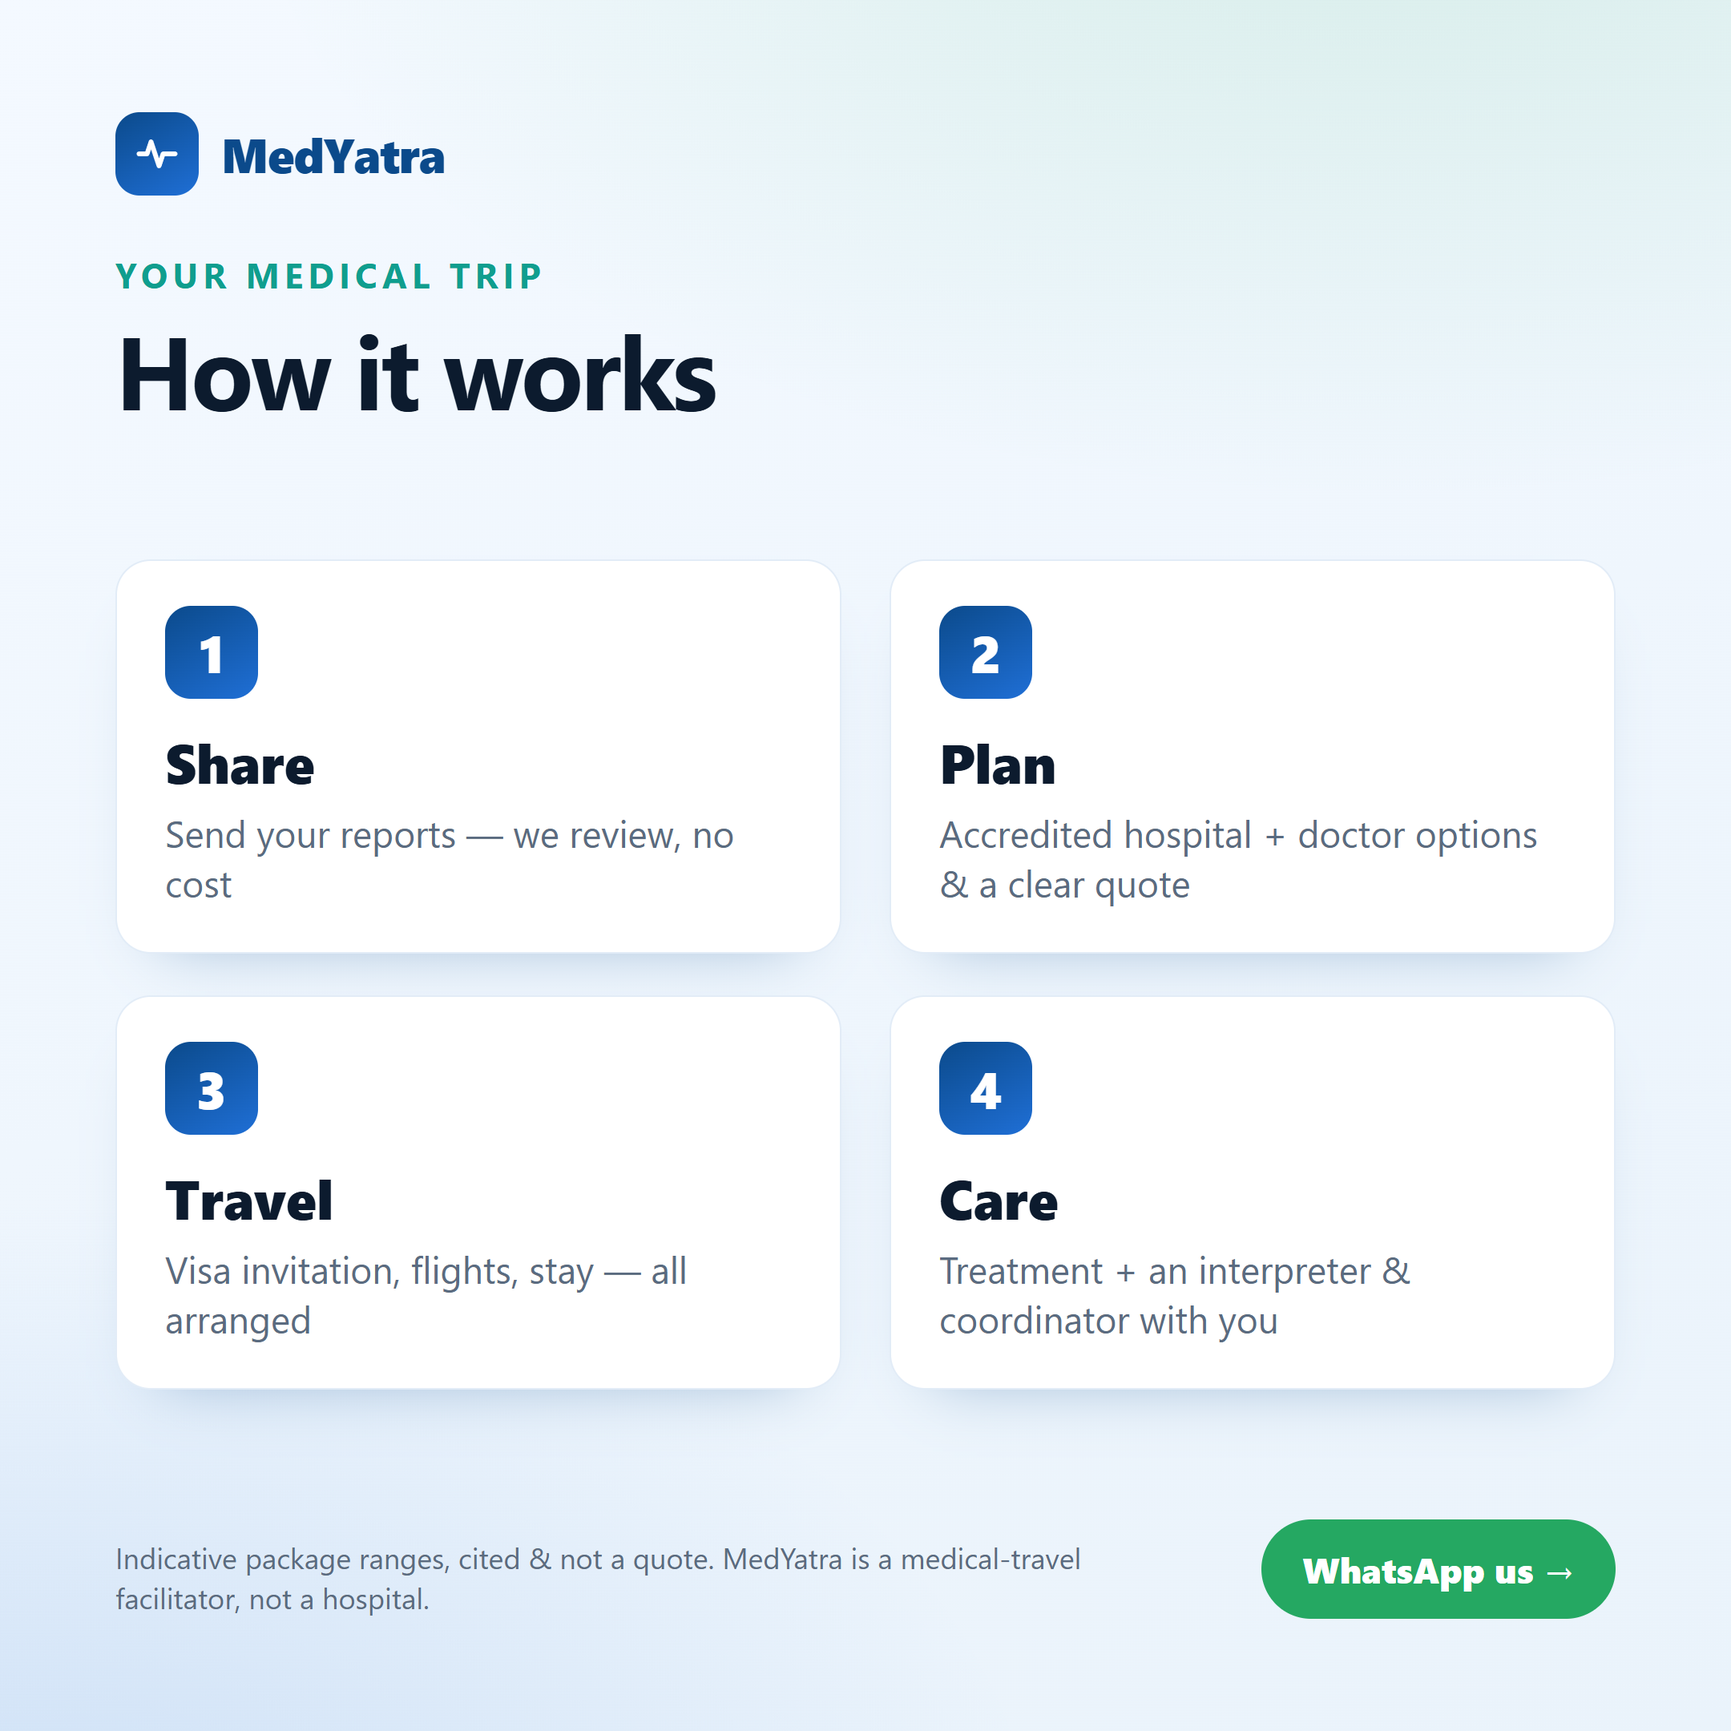
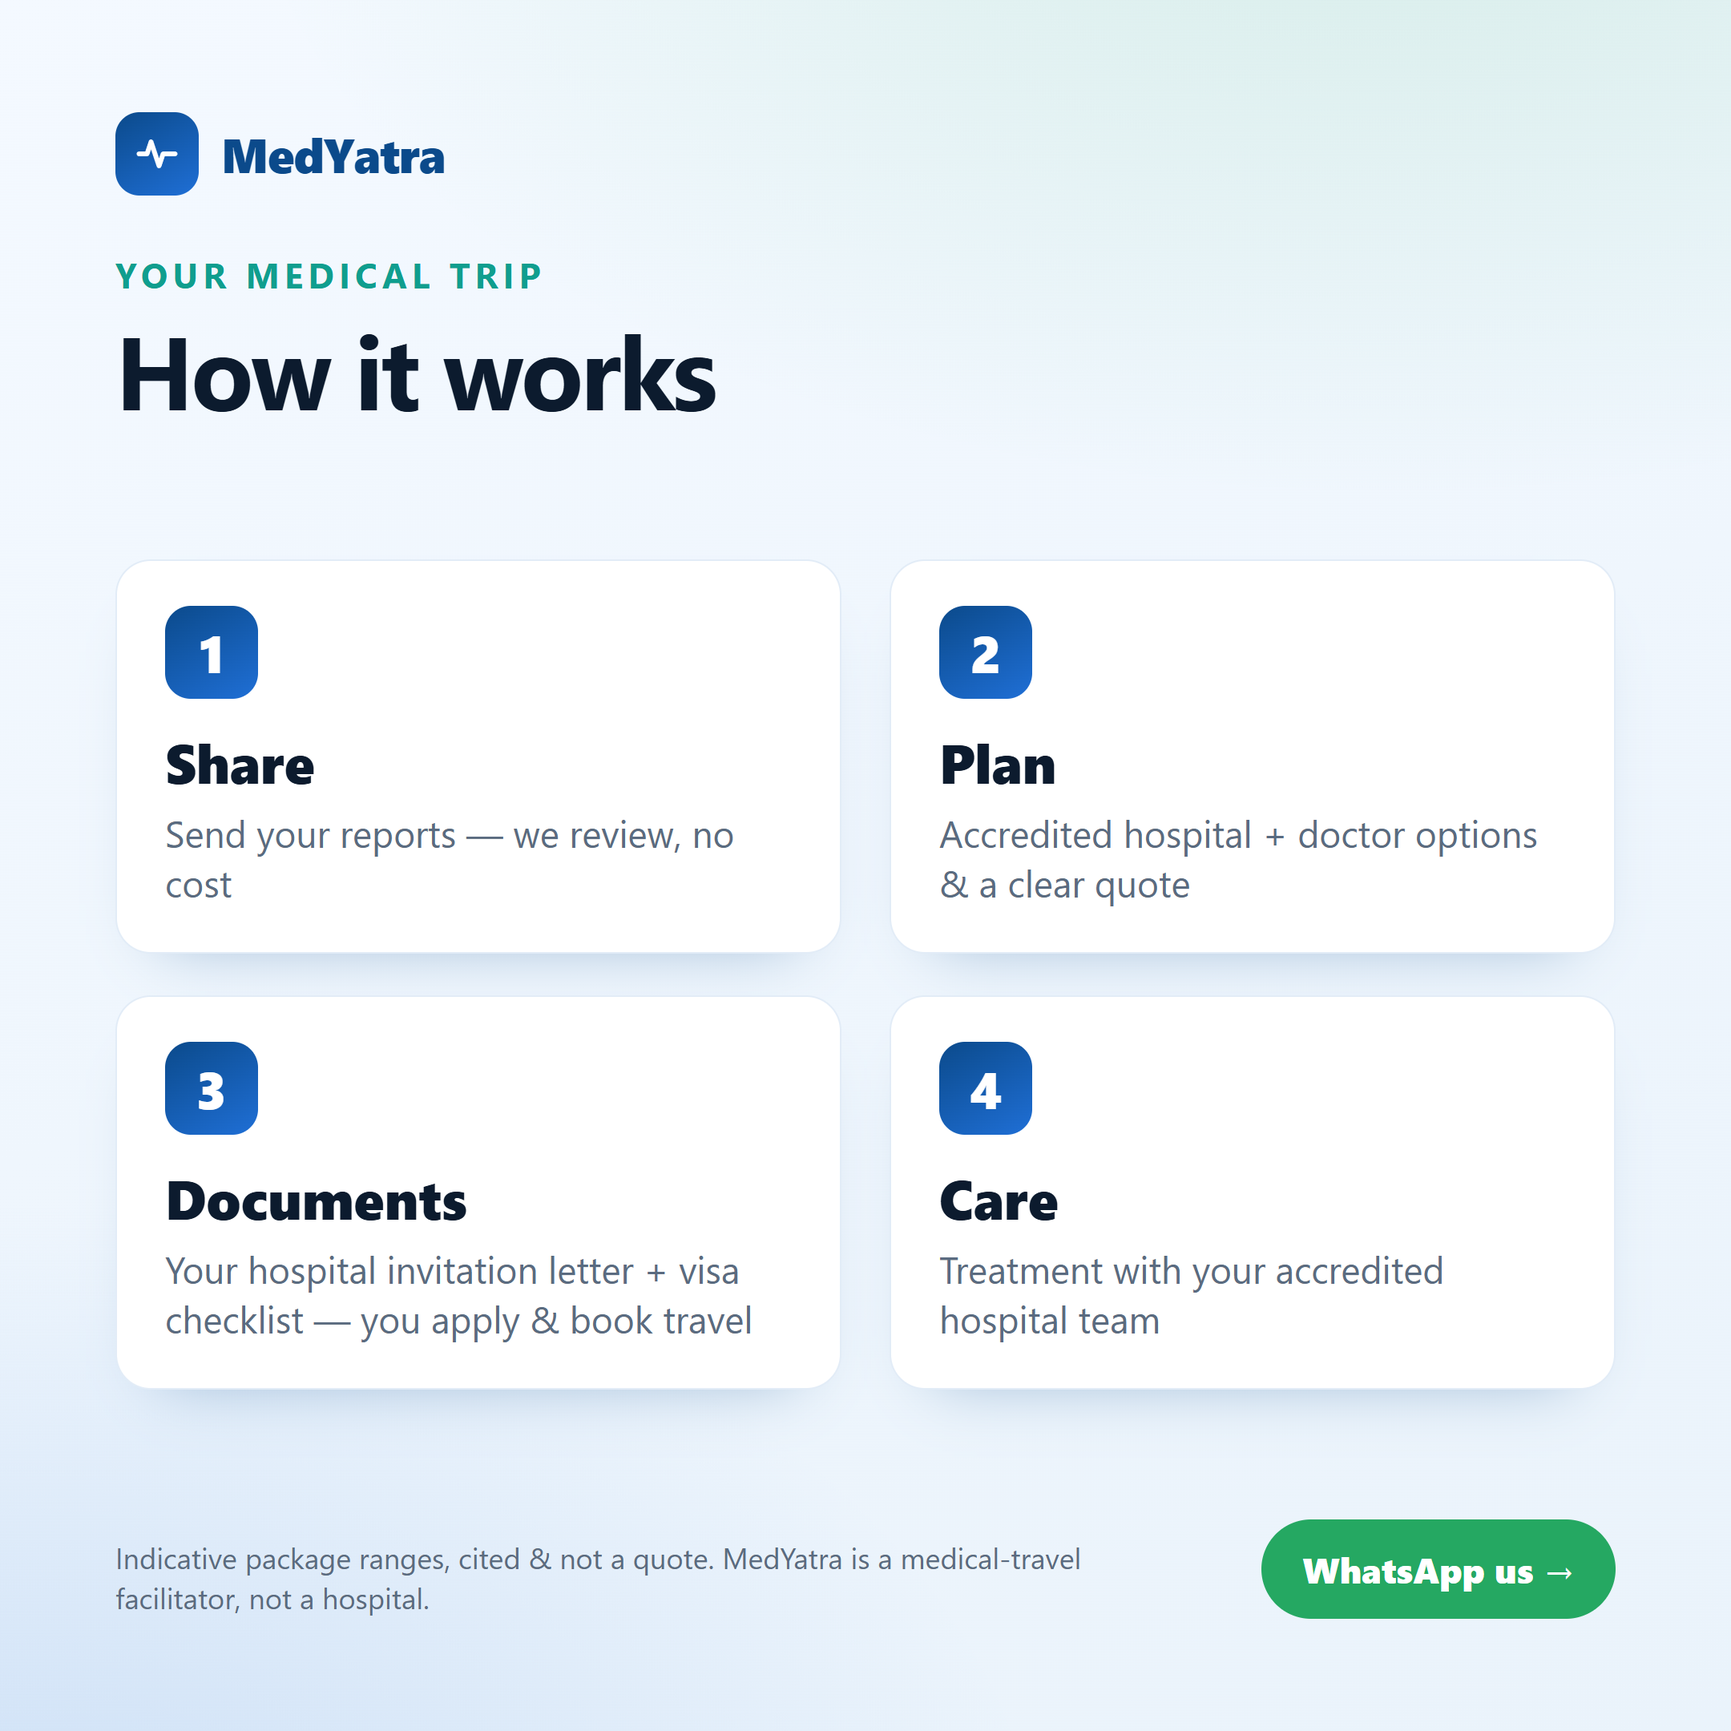
Operator-front (isolation + benchmarks) · journey stress-hardening + scope · money fix
Money formatting (bug: "$0.0005k" / "$0.5k" for $500):
- lib/money.mjs — one correct formatter ($500 · $6.5k · $90k · $1.5M). Applied across
  infographic, server, query, landing, gen_proposals (killed 6 duplicated /1000 sites).

Scope recalibration (MedYatra = LIGHT coordination):
- Supporting DOCS only: hospital invitation letter + visa checklist; the PATIENT applies +
  books own tickets. Interpreter/transfers/accommodation are partner/operator-provided.
- Reworded visa.mjs, visa_start/stay_options/pre_op templates, howItWorks + welcome
  infographics; build-os/09 "who does what". Removed over-claims (flights/interpreter/arrival).

Journey stress-hardening (comms_machine):
- Added silent/nudge fallbacks to booking + travel (were infinite-stall), reschedule path,
  and two edge states: cant_travel (visa denied/unfit) + complication (clinical escalation).
  22 stages; verified transitions + full comms run.

Operator-front / multi-tenant (build for a TruDoc-type first):
- Tenant DATA ISOLATION: /studio?tenant=X shows only that operator's leads (verified 0 leak).
- Cross-tenant BENCHMARKS (data-core/benchmarks.mjs, /benchmarks): de-identified, k-anonymised
  aggregate learning — NOT patient-data reuse (corrected the moat framing in build-os/11).
- Longer-term aggregator/customer-platform noted as a contingent extension.

Changed region(s): [[0.0931, 0.6824, 0.4343, 0.7755], [0.5273, 0.7134, 0.8375, 0.7755]]

diff --git a/server/console.html b/server/console.html
@@ -108,7 +108,7 @@ async function tick(){
   const s=await (await fetch("/api/state")).json();
   const k=s.kpi;
   $("stamp").textContent="live · updated "+new Date(s.now).toLocaleTimeString();
-  $("infra").innerHTML=" · <a href='/studio' target='_blank'><b>studio ▸ approve &amp; deploy</b></a> · <a href='/comms' target='_blank'>comms</a> · <a href='/distribution' target='_blank'>distribution</a> · <a href='/plugins' target='_blank'>plugins</a> · <a href='/worklist' target='_blank'>worklist</a> · site: <a href='/site/index.html' target='_blank'>"+(k.sitePages||0)+" live</a> · outbox: "+(k.outbox||0)+" · tenants: "+(k.tenants||0)+" · ext leads: "+(k.extLeads||0);
+  $("infra").innerHTML=" · <a href='/studio' target='_blank'><b>studio ▸ approve &amp; deploy</b></a> · <a href='/comms' target='_blank'>comms</a> · <a href='/distribution' target='_blank'>distribution</a> · <a href='/plugins' target='_blank'>plugins</a> · <a href='/worklist' target='_blank'>worklist</a> · site: <a href='/site/index.html' target='_blank'>"+(k.sitePages||0)+" live</a> · outbox: "+(k.outbox||0)+" · tenants: "+(k.tenants||0)+" · ext leads: "+(k.extLeads||0)+" · <a href='/benchmarks' target='_blank'>benchmarks</a>";
   $("kpis").innerHTML=[
    [k.markets,"Source markets","4 regions"],[k.cats,"Launch categories","Cardiac ⚑"],
    [k.partners,"Partners",k.latent+" latent/emerging"],[k.highOpp,"High-opp candidates","margin play"],

diff --git a/build-os/11_GTM_MODEL_FORK.md b/build-os/11_GTM_MODEL_FORK.md
@@ -32,7 +32,7 @@ coordinators, payment rails, and often source-market presence. The **dual-mode i
 | **Time to first paid patient** | Weeks — integration, not cold-start. They bring existing demand + supply. |
 | **Capital** | Low — mostly your build time + integration. |
 | **Risk** | Commercial dependency on one operator; you don't own the patient or brand; they could build in-house. Thin moat *if you're captive to one*. |
-| **Moat** | Weak unless you (a) keep the tech IP + the **outcome/calibration data** advantage, and (b) stay **multi-tenant** — powering several operators, not one. |
+| **Moat** | Weak unless you (a) keep the tech IP + a **de-identified aggregate benchmark** advantage (NOT patient-data reuse — that stays siloed per operator), and (b) stay **multi-tenant**. |
 
 ## Recommendation — operator-front first, as a multi-tenant platform; standalone later and selectively
 
@@ -40,10 +40,10 @@ These aren't mutually exclusive over time. The sharp sequence:
 
 1. **Start operator-front** to reach a live transaction fast and cheap (weeks), prove the engine on *real*
    patients, and generate revenue + data + calibration **without the legal/hiring cold-start.**
-2. **Stay multi-tenant from day one** (already architected: `source_ref`/`tenant` scoping) so you're a
-   *platform* powering multiple operators — not one operator's captive tool. **This is the moat.** The two
-   assets that keep you a platform rather than a vendor are the **tech IP** and the **cross-tenant outcome
-   /calibration data** — neither of which any single operator owns.
+2. **Stay multi-tenant, with strict data isolation** so you're a *platform* powering multiple operators —
+   each fully siloed — not one operator's captive tool. **This is the moat**, and it rests on exactly two
+   legally-clean assets: the **tech IP**, and **de-identified aggregate learning** (see the hard rules below).
+   Patient data is *never* shared across operators; only anonymised statistical patterns compound.
 3. **Fund the standalone build later, selectively**, from that proof + cashflow — and only in categories where
    owning the full stack pays: per the exclusivity thesis, go **non-exclusive in existing categories, exclusive
    where MedYatra builds or is one of few players** (e.g. the wellness/naturopathy line, or a wedge you
@@ -52,16 +52,33 @@ These aren't mutually exclusive over time. The sharp sequence:
 This matches the founder's stated instincts: front-for-an-operator (idea 1), non-exclusive-existing /
 exclusive-where-we-build (idea 3), moat = the step that makes it its own thing.
 
-## The design principle that protects optionality
-**Stay multi-tenant and own the data/calibration layer.** Concretely, in this repo:
-- Every lead is tenant-scoped (`lead.source_ref` → a `tenant`); own-acquisition is just the `medyatra` tenant.
-- Per-tenant ingest tokens (not one shared key) so operators are isolated and revocable.
-- The **outcome feedback loop** (`query.mjs calibration`) aggregates across tenants — the asset no single
-  operator can replicate.
-- Studio + console are tenant-aware so you can run several operators from one engine.
+## Two hard rules that shape the platform
+
+**1 — Tenant data isolation (privacy by design).** Each operator's patient data is siloed to their tenant.
+Operator A never sees operator B's leads, and **no operator's patient records are ever reused for anyone
+else.** This is a legal necessity (DPDP/GDPR + the operators' own patient contracts) *and* the trust that
+makes them plug in at all. In this repo: leads are scoped by `source_ref`, the Studio queue is tenant-
+scoped (`/studio?tenant=…` shows only that operator's leads), and per-tenant tokens isolate ingestion.
+
+**2 — The shareable asset is de-identified aggregate learning, not patient data.** What compounds across
+tenants is NOT anyone's patient rows — it's the *statistical patterns*: category×market conversion
+benchmarks, message/stage performance, fit-model calibration. Computed with a **k-anonymity threshold**
+(cells below K leads are suppressed) so nothing is re-identifiable and no tenant is attributable
+(`data-core/benchmarks.mjs` → `/api/benchmarks`). That aggregate + the tech IP is the moat: legally clean,
+and impossible for one operator to replicate because only the platform sees across operators. **Crucially,
+this is NOT "use one operator's patient data elsewhere"** — it's counts and rates above a privacy threshold,
+with every patient- and tenant-identifier stripped before aggregation.
 
 If you ever go standalone in a category, it's the *same* engine with `medyatra` as just another tenant — no
 rebuild. That's why operator-front-first costs you nothing in optionality.
+
+## Longer-term extension (optional, contingent)
+As a multi-tenant platform, MedYatra could become an **aggregator of med-tourism operators** across
+categories — many operators, one engine, one benchmark layer. From there, a **customer-facing platform** (a
+patient-side marketplace spanning operators and categories) is a natural but much later step, with its own
+entity, licensing and liability questions. Flagged as a direction the architecture deliberately keeps open —
+not a near-term build. *(This repo's present purpose is to demonstrate the thinking and the architecture, not
+to run live patients.)*
 
 ## First move per path (so the decision is actionable)
 - **Operator-front:** one paid pilot powering a single operator's existing Gulf/Africa lead base into India on

diff --git a/build-os/09_SALES_COMMS_PLAYBOOK.md b/build-os/09_SALES_COMMS_PLAYBOOK.md
@@ -68,23 +68,29 @@ ancillary services (below) at the visa/travel stages. Run: `npm run seed-leads &
 
 ## Ancillary services — the wrap-around that makes it a TRIP
 
-A procedure isn't a trip. Two services close the gap (both human-gated, tracked in the `service` table):
+A procedure isn't a trip — but MedYatra's role in the trip is **deliberately light**. We provide *supporting
+documents* and *hospital coordination*; the **patient books their own tickets and applies for their own visa**;
+interpreter / transfers / accommodation are **partner-** (and, with a tenant, operator-) provided. This keeps
+the coordination layer simple and the liability narrow. Both services below are human-gated, tracked in `service`.
 
-- **Visa assistance** (`lib/visa.mjs`) — a *workflow*, not an API (no third-party access to the government
-  portal). Since **1 Apr 2025** the e-Medical Visa requires a **system-generated invitation letter issued by
-  the hospital** (a clinical handoff we already model); the patient then applies on indianvisaonline.gov.in.
-  We orchestrate the letter, give a **country-correct document checklist**, guide the application, and handle
-  **attendant visas** (2 allowed; PK 1, BD 3). `startVisa()` creates the patient + attendant service rows,
-  blocked on the hospital letter. Optional VFS concierge via `VFS_API_KEY`.
-- **Accommodation** (`lib/stay.mjs`) — near-hospital, **extended-stay, family rooms for patient + relatives,
-  pre- AND post-op** (post-op window sized by category). Provider-agnostic behind env keys (Booking.com
-  Demand API / Hotelbeds / RateHawk), with a **curated near-hospital fallback** until a provider is keyed.
-  `bookStay()` is dry-run unless a provider is keyed + `POST_LIVE=1` + confirm.
+- **Visa — supporting documents only** (`lib/visa.mjs`) — NOT an application service, and no third-party API
+  into the government portal. Since **1 Apr 2025** the e-Medical Visa requires a **system-generated invitation
+  letter issued by the hospital** (a handoff we model); the **patient then applies themselves** on
+  indianvisaonline.gov.in. MedYatra's role: orchestrate the hospital letter + hand over a **country-correct
+  checklist**, and flag **attendant** limits (2; PK 1, BD 3). We do **not** submit for the patient. Optional VFS
+  concierge (`VFS_API_KEY`) is a later, tenant-only add-on.
+- **Accommodation — partner-provided** (`lib/stay.mjs`) — near-hospital, extended-stay, family rooms, pre/post-op.
+  Provider-agnostic behind env keys (Booking.com Demand API / Hotelbeds / RateHawk) with a curated near-hospital
+  fallback; `bookStay()` is dry-run unless keyed + `POST_LIVE=1` + confirm. Flights are the patient's own.
+
+**Who does what:** MedYatra = demand-gen · qualification · relaying reports · **supporting docs** · light
+coordination. Hospital = all clinical + invitation letter + slot + treatment + discharge. Patient = **their own
+visa application + tickets**. Partners/operator = interpreter · transfers · accommodation.
 
 ## Implementation
 
 - `lib/comms_machine.mjs` — the state machine (states, transitions, session/template + nudge logic).
-- `data-core/gen_comms.mjs` — drafts the **19** approval-ready templates + renders infographic headers → `comms_template` (`/comms`).
+- `data-core/gen_comms.mjs` — drafts the **21** approval-ready templates + renders infographic headers → `comms_template` (`/comms`).
 - `data-core/comms_run.mjs` — the engine driver (gates → draft → advance → fire services). `npm run comms-run`.
 - `data-core/seed_leads.mjs` — demo leads across journey stages. `npm run seed-leads`.
 - `lib/visa.mjs` · `lib/stay.mjs` — ancillary-service adapters. `lib/publishers.mjs` `whatsapp.sendTemplate()` sends (human-gated).

diff --git a/outputs/comms/whatsapp-templates.md b/outputs/comms/whatsapp-templates.md
@@ -72,21 +72,21 @@
 ## 12. visa_start — `medyatra_visa_start`
 - **Type:** template · **Category:** utility
 - **Image header:** `outputs/comms/img/how-it-works.png`
-- **Body:** To start your India medical visa, the hospital will issue your official invitation letter. Here's your document checklist. Up to {{1}} attendant(s) can travel with you.
+- **Body:** For your India medical visa, the hospital issues your official invitation letter (a required supporting document) and we send you the full checklist. You apply on the government portal yourself — it's straightforward. Up to {{1}} attendant(s) may travel with you.
 - **Buttons:** [See my checklist] [Ask about visa]
-- _Invitation letter is a HOSPITAL handoff (system-generated, mandatory since Apr-2025). See lib/visa.mjs._
+- _SUPPORTING DOCS ONLY — hospital letter (system-generated, mandatory since Apr-2025) + checklist. The patient applies themselves; we don't submit for them. See lib/visa.mjs._
 
 ## 13. stay_options — `medyatra_stay_options`
 - **Type:** template · **Category:** utility
 - **Image header:** `outputs/comms/img/how-it-works.png`
-- **Body:** Here are near-hospital stay options for you and your family — for before and after treatment. Walkable, family-friendly, extended-stay. Want me to hold one?
-- **Buttons:** [See stays] [Hold a room]
-- _Options come from lib/stay.mjs (curated near-hospital until a booking provider is keyed)._
+- **Body:** Here are near-hospital stay options via our partners, for you and your family before and after treatment. You book your own flights and visa; we help with the stay and the paperwork. Want these options?
+- **Buttons:** [See stays] [Ask a question]
+- _Partner-provided stay (lib/stay.mjs). Flights + visa are the patient's own; MedYatra keeps coordination light._
 
 ## 14. pre_op — `medyatra_pre_op`
 - **Type:** session · **Category:** utility
 - **Image header:** `null`
-- **Body:** Hi {{1}}, your pre-op instructions from the hospital are ready (fasting, medicines, what to bring). Your coordinator will meet you on arrival. Safe travels.
+- **Body:** Hi {{1}}, your pre-op instructions from the hospital are ready (fasting, medicines, what to bring). Safe travels — message us anytime if you need anything.
 - **Buttons:** [Got it] [Ask a question]
 
 ## 15. in_treatment — `medyatra_in_treatment`
@@ -120,6 +120,20 @@
 - **Body:** Hi {{1}}, still considering treatment in India? Your MedYatra coordinator is here whenever you're ready — no pressure. Reply STOP to opt out.
 - **Buttons:** [I'm ready] [Not now]
 - _Marketing category — requires prior opt-in; includes opt-out._
+
+## 20. cant_travel — `medyatra_cant_travel`
+- **Type:** session · **Category:** utility
+- **Image header:** `null`
+- **Body:** Hi {{1}}, sorry the visa or travel didn't work out this time. No problem — we'll hold everything and pick up whenever you're ready to try again. Just message us.
+- **Buttons:** [Try again later] [Ask a question]
+- _Reached when a visa is denied or the patient isn't fit to fly — honest hold, not a loss._
+
+## 21. complication — `medyatra_complication`
+- **Type:** session · **Category:** utility
+- **Image header:** `null`
+- **Body:** Hi {{1}}, your care is with the hospital's medical team and they are on it. We're keeping your family updated and are here for anything non-medical. Please follow the doctors' guidance.
+- **Buttons:** [Thank you]
+- _Clinical escalation — hospital-led. MedYatra never advises clinically; family-comms + logistics only._
 
 
 **Compliance:** consent required before outbound; no clinical claims/guarantees; prices indicative (shown in image, not body); facilitator voice; honor opt-out. See /build-os/09.
